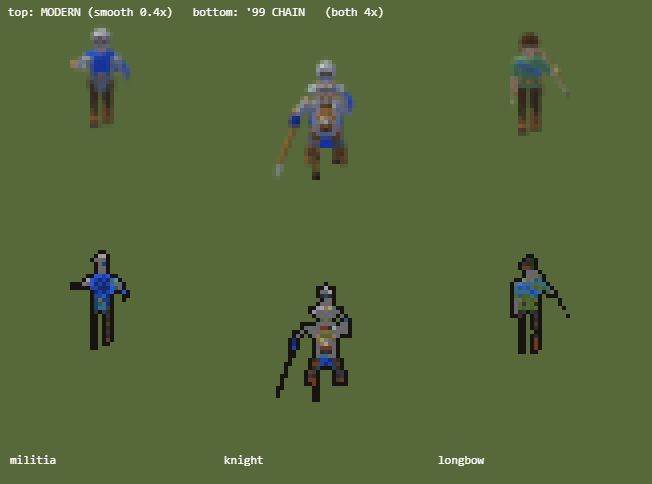
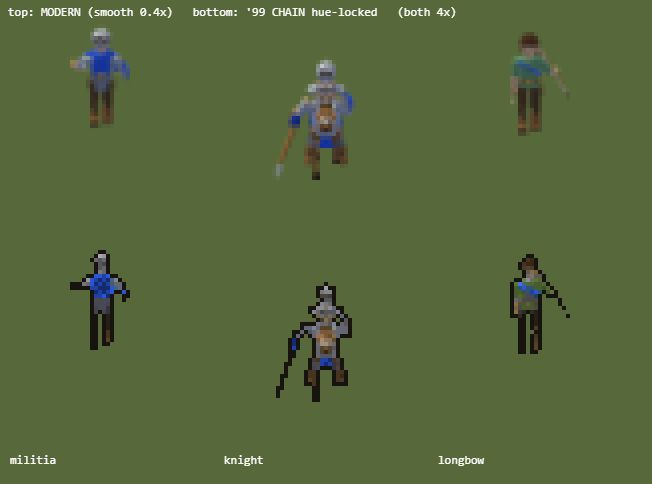
r99-roof-fix: hue-locked quantize, channel posterize removed, sw tq-v82
The TC thatch quantized OLIVE with red streaks: the per-channel posterize
collapsed warm low-saturation ratios (115,93,48 -> 102,102,51) into the
wrong ramp, and RGB-space Bayer flipped boundary pixels across hues. The
palette's own shade steps are the posterize now; nearest index comes from
the true color and the Bayer dithers only the shade within that ramp.
Contact sheets regenerated. npm test 10/10, baselines byte-identical.

diff --git a/app/index.html b/app/index.html
@@ -5900,9 +5900,11 @@ const R99={};
   const P=[];
   const hex=h=>[parseInt(h.slice(1,3),16),parseInt(h.slice(3,5),16),parseInt(h.slice(5,7),16)];
   const L=(a,b,t)=>Math.round(a+(b-a)*t);
+  const RS=[],RE=[],LUM=[]; // per-index ramp bounds + luma, for in-ramp dither
   const ramp=(n,c0,c1)=>{const s=P.length;
     for(let i=0;i<n;i++){const t=n===1?0:i/(n-1);
       P.push([L(c0[0],c1[0],t),L(c0[1],c1[1],t),L(c0[2],c1[2],t)]);}
+    for(let i=0;i<n;i++){RS[s+i]=s;RE[s+i]=s+n-1;}
     return s;};
   for(let tI=0;tI<8;tI++){ // team ramps: deep shadow -> main -> trim highlight
     const m=hex(TEAMS[tI].main),d=hex(TEAMS[tI].dark),tr=hex(TEAMS[tI].trim);
@@ -5926,6 +5928,7 @@ const R99={};
   R99.DARKS =ramp(6,[10,8,6],[74,66,52]);         // outlines, night, fog hue
   R99.BACK  =ramp(4,[16,22,8],[60,70,40]);        // backdrop greens
   R99.N=P.length;                                 // real colors; the pad below is never matched
+  for(let i=0;i<R99.N;i++)LUM[i]=P[i][0]*3+P[i][1]*6+P[i][2];
   while(P.length<256)P.push([255,0,255]);
   R99.P=P;
   let LUT=null;
@@ -5976,7 +5979,6 @@ const R99={};
     const im=g.getImageData(0,0,w,h),d=im.data,LU=R99.lut();
     const M=o.mask||null,TR=(o.team|0)*8;
     const A=o.amp===undefined?12:o.amp;
-    const NL=o.bands||6,ST=255/(NL-1);
     const RL=[];for(let i=0;i<8;i++){const pc=P[TR+i];RL.push(pc[0]*3+pc[1]*6+pc[2]);}
     for(let y=0;y<h;y++)for(let x=0;x<w;x++){
       const i=(y*w+x)*4;
@@ -5989,9 +5991,24 @@ const R99={};
         for(let s=0;s<8;s++){const dd=Math.abs(RL[s]-lum);if(dd<bd){bd=dd;bi=s;}}
         pc=P[TR+bi];
       }else{
-        let r=Math.round(d[i]/ST)*ST+bb,gg=Math.round(d[i+1]/ST)*ST+bb,b2=Math.round(d[i+2]/ST)*ST+bb;
-        r=r<0?0:r>255?255:r;gg=gg<0?0:gg>255?255:gg;b2=b2<0?0:b2>255?255:b2;
-        pc=P[LU[(r>>3)<<10|(gg>>3)<<5|(b2>>3)]];
+        /* HUE-LOCKED quantize (the tq-v81 roof bug, both halves): the ramp is
+           picked from the TRUE pixel color — the earlier per-channel posterize
+           collapsed warm low-saturation ratios (thatch 115,93,48 became
+           102,102,51) and sent whole roofs into the olive ramp, and an
+           RGB-space Bayer offset flipped midtones across hues as speckle. In
+           an indexed pipeline the palette's own shade steps ARE the posterize
+           (the Blender 5-band materials supply the banding); the Bayer only
+           dithers the SHADE within the chosen ramp — era indexed art dithered
+           along a ramp, never across hues. amp = dither strength (12 = full). */
+        const L0=d[i]*3+d[i+1]*6+d[i+2];
+        let bi=LU[(d[i]>>3)<<10|(d[i+1]>>3)<<5|(d[i+2]>>3)];
+        const t=(BAYER[(y&3)*4+(x&3)]+.5)/16,S9=A/12;
+        if(L0>LUM[bi]&&bi<RE[bi]){
+          if(t<(L0-LUM[bi])/((LUM[bi+1]-LUM[bi])||1)*S9)bi++;
+        }else if(L0<LUM[bi]&&bi>RS[bi]){
+          if(t<(LUM[bi]-L0)/((LUM[bi]-LUM[bi-1])||1)*S9)bi--;
+        }
+        pc=P[bi];
       }
       d[i]=pc[0];d[i+1]=pc[1];d[i+2]=pc[2];d[i+3]=255;
     }
@@ -10075,8 +10092,9 @@ function bsprGet99(type,age,team,sl){
     mi=mg.getImageData(0,0,w,h).data;
   }
   if(sl)snowRim(c,sl);
-  // amp 6, not the units' 12: big soft roof planes sit BETWEEN ramps, and a
-  // wide Bayer offset flips them across hues — speckle, not texture
+  // amp 6, not the units' 12: half-strength shade dither keeps the big roof
+  // planes reading as clean bands (the quant is hue-locked, so this is purely
+  // a texture-density knob now)
   R99.post(c,{mask:mi,team,amp:6});
   const out={c,w,h,ax:Math.round(A.ax*w/A.w),ay:Math.round(A.ay*h/A.h)};
   BSPR.tint[ck]=out;return out;
@@ -17281,7 +17299,7 @@ requestAnimationFrame(frame);
 
 <script>
 (function(){
-  var BUILD = 'tq-v81';
+  var BUILD = 'tq-v82';
   // The game reads this for the multiplayer version gate (gameVer() falls back
   // to 'dev' when the wrapper is absent, i.e. local test.html / the artifact).
   window.GAMEVER = BUILD;

diff --git a/tiny-conquerors.html b/tiny-conquerors.html
@@ -5890,9 +5890,11 @@ const R99={};
   const P=[];
   const hex=h=>[parseInt(h.slice(1,3),16),parseInt(h.slice(3,5),16),parseInt(h.slice(5,7),16)];
   const L=(a,b,t)=>Math.round(a+(b-a)*t);
+  const RS=[],RE=[],LUM=[]; // per-index ramp bounds + luma, for in-ramp dither
   const ramp=(n,c0,c1)=>{const s=P.length;
     for(let i=0;i<n;i++){const t=n===1?0:i/(n-1);
       P.push([L(c0[0],c1[0],t),L(c0[1],c1[1],t),L(c0[2],c1[2],t)]);}
+    for(let i=0;i<n;i++){RS[s+i]=s;RE[s+i]=s+n-1;}
     return s;};
   for(let tI=0;tI<8;tI++){ // team ramps: deep shadow -> main -> trim highlight
     const m=hex(TEAMS[tI].main),d=hex(TEAMS[tI].dark),tr=hex(TEAMS[tI].trim);
@@ -5916,6 +5918,7 @@ const R99={};
   R99.DARKS =ramp(6,[10,8,6],[74,66,52]);         // outlines, night, fog hue
   R99.BACK  =ramp(4,[16,22,8],[60,70,40]);        // backdrop greens
   R99.N=P.length;                                 // real colors; the pad below is never matched
+  for(let i=0;i<R99.N;i++)LUM[i]=P[i][0]*3+P[i][1]*6+P[i][2];
   while(P.length<256)P.push([255,0,255]);
   R99.P=P;
   let LUT=null;
@@ -5966,7 +5969,6 @@ const R99={};
     const im=g.getImageData(0,0,w,h),d=im.data,LU=R99.lut();
     const M=o.mask||null,TR=(o.team|0)*8;
     const A=o.amp===undefined?12:o.amp;
-    const NL=o.bands||6,ST=255/(NL-1);
     const RL=[];for(let i=0;i<8;i++){const pc=P[TR+i];RL.push(pc[0]*3+pc[1]*6+pc[2]);}
     for(let y=0;y<h;y++)for(let x=0;x<w;x++){
       const i=(y*w+x)*4;
@@ -5979,9 +5981,24 @@ const R99={};
         for(let s=0;s<8;s++){const dd=Math.abs(RL[s]-lum);if(dd<bd){bd=dd;bi=s;}}
         pc=P[TR+bi];
       }else{
-        let r=Math.round(d[i]/ST)*ST+bb,gg=Math.round(d[i+1]/ST)*ST+bb,b2=Math.round(d[i+2]/ST)*ST+bb;
-        r=r<0?0:r>255?255:r;gg=gg<0?0:gg>255?255:gg;b2=b2<0?0:b2>255?255:b2;
-        pc=P[LU[(r>>3)<<10|(gg>>3)<<5|(b2>>3)]];
+        /* HUE-LOCKED quantize (the tq-v81 roof bug, both halves): the ramp is
+           picked from the TRUE pixel color — the earlier per-channel posterize
+           collapsed warm low-saturation ratios (thatch 115,93,48 became
+           102,102,51) and sent whole roofs into the olive ramp, and an
+           RGB-space Bayer offset flipped midtones across hues as speckle. In
+           an indexed pipeline the palette's own shade steps ARE the posterize
+           (the Blender 5-band materials supply the banding); the Bayer only
+           dithers the SHADE within the chosen ramp — era indexed art dithered
+           along a ramp, never across hues. amp = dither strength (12 = full). */
+        const L0=d[i]*3+d[i+1]*6+d[i+2];
+        let bi=LU[(d[i]>>3)<<10|(d[i+1]>>3)<<5|(d[i+2]>>3)];
+        const t=(BAYER[(y&3)*4+(x&3)]+.5)/16,S9=A/12;
+        if(L0>LUM[bi]&&bi<RE[bi]){
+          if(t<(L0-LUM[bi])/((LUM[bi+1]-LUM[bi])||1)*S9)bi++;
+        }else if(L0<LUM[bi]&&bi>RS[bi]){
+          if(t<(LUM[bi]-L0)/((LUM[bi]-LUM[bi-1])||1)*S9)bi--;
+        }
+        pc=P[bi];
       }
       d[i]=pc[0];d[i+1]=pc[1];d[i+2]=pc[2];d[i+3]=255;
     }
@@ -10065,8 +10082,9 @@ function bsprGet99(type,age,team,sl){
     mi=mg.getImageData(0,0,w,h).data;
   }
   if(sl)snowRim(c,sl);
-  // amp 6, not the units' 12: big soft roof planes sit BETWEEN ramps, and a
-  // wide Bayer offset flips them across hues — speckle, not texture
+  // amp 6, not the units' 12: half-strength shade dither keeps the big roof
+  // planes reading as clean bands (the quant is hue-locked, so this is purely
+  // a texture-density knob now)
   R99.post(c,{mask:mi,team,amp:6});
   const out={c,w,h,ax:Math.round(A.ax*w/A.w),ay:Math.round(A.ay*h/A.h)};
   BSPR.tint[ck]=out;return out;

diff --git a/src/20-render2d.js b/src/20-render2d.js
@@ -125,9 +125,11 @@ const R99={};
   const P=[];
   const hex=h=>[parseInt(h.slice(1,3),16),parseInt(h.slice(3,5),16),parseInt(h.slice(5,7),16)];
   const L=(a,b,t)=>Math.round(a+(b-a)*t);
+  const RS=[],RE=[],LUM=[]; // per-index ramp bounds + luma, for in-ramp dither
   const ramp=(n,c0,c1)=>{const s=P.length;
     for(let i=0;i<n;i++){const t=n===1?0:i/(n-1);
       P.push([L(c0[0],c1[0],t),L(c0[1],c1[1],t),L(c0[2],c1[2],t)]);}
+    for(let i=0;i<n;i++){RS[s+i]=s;RE[s+i]=s+n-1;}
     return s;};
   for(let tI=0;tI<8;tI++){ // team ramps: deep shadow -> main -> trim highlight
     const m=hex(TEAMS[tI].main),d=hex(TEAMS[tI].dark),tr=hex(TEAMS[tI].trim);
@@ -151,6 +153,7 @@ const R99={};
   R99.DARKS =ramp(6,[10,8,6],[74,66,52]);         // outlines, night, fog hue
   R99.BACK  =ramp(4,[16,22,8],[60,70,40]);        // backdrop greens
   R99.N=P.length;                                 // real colors; the pad below is never matched
+  for(let i=0;i<R99.N;i++)LUM[i]=P[i][0]*3+P[i][1]*6+P[i][2];
   while(P.length<256)P.push([255,0,255]);
   R99.P=P;
   let LUT=null;
@@ -201,7 +204,6 @@ const R99={};
     const im=g.getImageData(0,0,w,h),d=im.data,LU=R99.lut();
     const M=o.mask||null,TR=(o.team|0)*8;
     const A=o.amp===undefined?12:o.amp;
-    const NL=o.bands||6,ST=255/(NL-1);
     const RL=[];for(let i=0;i<8;i++){const pc=P[TR+i];RL.push(pc[0]*3+pc[1]*6+pc[2]);}
     for(let y=0;y<h;y++)for(let x=0;x<w;x++){
       const i=(y*w+x)*4;
@@ -214,9 +216,24 @@ const R99={};
         for(let s=0;s<8;s++){const dd=Math.abs(RL[s]-lum);if(dd<bd){bd=dd;bi=s;}}
         pc=P[TR+bi];
       }else{
-        let r=Math.round(d[i]/ST)*ST+bb,gg=Math.round(d[i+1]/ST)*ST+bb,b2=Math.round(d[i+2]/ST)*ST+bb;
-        r=r<0?0:r>255?255:r;gg=gg<0?0:gg>255?255:gg;b2=b2<0?0:b2>255?255:b2;
-        pc=P[LU[(r>>3)<<10|(gg>>3)<<5|(b2>>3)]];
+        /* HUE-LOCKED quantize (the tq-v81 roof bug, both halves): the ramp is
+           picked from the TRUE pixel color — the earlier per-channel posterize
+           collapsed warm low-saturation ratios (thatch 115,93,48 became
+           102,102,51) and sent whole roofs into the olive ramp, and an
+           RGB-space Bayer offset flipped midtones across hues as speckle. In
+           an indexed pipeline the palette's own shade steps ARE the posterize
+           (the Blender 5-band materials supply the banding); the Bayer only
+           dithers the SHADE within the chosen ramp — era indexed art dithered
+           along a ramp, never across hues. amp = dither strength (12 = full). */
+        const L0=d[i]*3+d[i+1]*6+d[i+2];
+        let bi=LU[(d[i]>>3)<<10|(d[i+1]>>3)<<5|(d[i+2]>>3)];
+        const t=(BAYER[(y&3)*4+(x&3)]+.5)/16,S9=A/12;
+        if(L0>LUM[bi]&&bi<RE[bi]){
+          if(t<(L0-LUM[bi])/((LUM[bi+1]-LUM[bi])||1)*S9)bi++;
+        }else if(L0<LUM[bi]&&bi>RS[bi]){
+          if(t<(LUM[bi]-L0)/((LUM[bi]-LUM[bi-1])||1)*S9)bi--;
+        }
+        pc=P[bi];
       }
       d[i]=pc[0];d[i+1]=pc[1];d[i+2]=pc[2];d[i+3]=255;
     }
@@ -4300,8 +4317,9 @@ function bsprGet99(type,age,team,sl){
     mi=mg.getImageData(0,0,w,h).data;
   }
   if(sl)snowRim(c,sl);
-  // amp 6, not the units' 12: big soft roof planes sit BETWEEN ramps, and a
-  // wide Bayer offset flips them across hues — speckle, not texture
+  // amp 6, not the units' 12: half-strength shade dither keeps the big roof
+  // planes reading as clean bands (the quant is hue-locked, so this is purely
+  // a texture-density knob now)
   R99.post(c,{mask:mi,team,amp:6});
   const out={c,w,h,ax:Math.round(A.ax*w/A.w),ay:Math.round(A.ay*h/A.h)};
   BSPR.tint[ck]=out;return out;

diff --git a/app/sw.js b/app/sw.js
@@ -1,6 +1,6 @@
 // Tiny Conquerors service worker - offline-capable, but never stale.
 // Bump VERSION on every deploy; old caches are purged on activate.
-const VERSION = 'tq-v81';
+const VERSION = 'tq-v82';
 const ASSETS = ['./', './index.html', './manifest.webmanifest', './icon-192.png', './icon-512.png'];
 // Unit sprite sheets get their own cache that VERSION bumps do NOT purge: they
 // are ~23MB, immutable per filename, and re-downloading the lot on every deploy

diff --git a/HANDOFF.md b/HANDOFF.md
@@ -342,6 +342,7 @@ The Blender sheets now draw in the game. **Purely cosmetic — all four determin
 - Toggle: the **✦ button** beside `3D`, or `toggleSprites()`.
 
 ## Recent fixes (last published state)
+- Label "r99-roof-fix" (2026-08-20, sw **tq-v82**). Daniel's first Phase B note ("fix the roof") — the TC thatch came out OLIVE with red streaks. Root cause was structural, in TWO parts, both in R99.post's non-mask path: (1) **the 6-level per-channel posterize destroyed hue on warm low-saturation colors** — thatch (115,93,48) rounded to (102,102,51), r===g, so the LUT sent whole roofs into the OLIVE ramp (the red streaks were the same collapse landing in TERRA9); (2) the RGB-space Bayer offset flipped boundary pixels across hue families as speckle. Fix: **drop the channel posterize entirely — in an indexed pipeline the palette's shade steps ARE the posterize** (the Blender 5-band materials supply the banding) — and make the quantize HUE-LOCKED: nearest index from the TRUE color, then the Bayer dithers only the SHADE within that index's ramp (per-index RS/RE bounds + LUM luma table, built in ramp()). `amp` now means shade-dither strength (units 12 = full, buildings 6 = half). Diagnosed by sampling actual pixels through the pipeline (bimg canvas vs BSPR.tint['tc/0/0/0/99']) — the webp THUMBNAIL of tc_a0 looks light tan but the real roof pixels are (108-115, 88-93, 46-48); don't judge source colors by eye. Whole roster + all contact sheets regenerated (hue-true ship hulls and skin came out richer — no regressions). `npm test` 10/10, all four baselines byte-identical.
 - Label "r99-phase-b" (2026-08-20, sw **tq-v81**). **PHASE B SHIPPED — the '99 sprite post-chain runs AT LOAD TIME in the game, not in Blender.** GFX99-PLAN points 4-8, same Settings toggle. Render-side only: `npm test` 10/10, all four baselines byte-identical. Why no re-render: the forge's 5-band shading is already in the sheets; the missing back half (downscale → posterize → palettize → dither → outline → team ramps) is per-(unit,anim,TEAM) work the tint step already did at runtime — this reuses the cached 23MB download, keeps the artifact fallback intact, and makes team colour the authentic palette-index remap.
   - **`R99.post(canvas,{mask,team,amp,bands})`** (in the PAL99 IIFE): posterize → PAL99 index + Bayer → 1-bit alpha → baked 1px warm outline. The outline tests the rim against REAL transparency only, so cell-clipped bodies don't grow false edges. Masked pixels become a TEAM RAMP REMAP by luma, dithered — run for team 0 too, so the colourblind palette flows through the sheets.
   - **Units — `sprGet99`/`sprShadow99`** beside sprGet: PER-CELL downscale of the sheet to its exact on-screen 1x size (integer cell walls; a whole-sheet downscale puts cell borders on fractions and bleeds rows), then R99.post; anchors rounded to integers. Cache key `key/an/team/99` in USPR.tint (gotcha 3). Sheared 50%-checkerboard shadow sheet per (key,anim) under `key/an/sh99` — teams share it. sprDraw r99: **rows 3-5 draw as their mirror row flipped (5-stored+mirror; key light AND baked shadow flip with them — the authentic quirk)**; under scale(-1,1) the dest anchor is unchanged (draw at -ax both ways).
